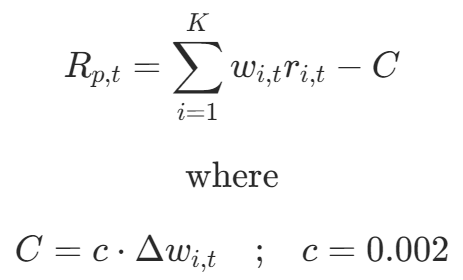
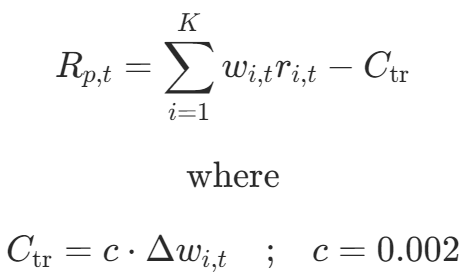
Updating README.md

diff --git a/NNBasedPortfolioOptimization/README.md b/NNBasedPortfolioOptimization/README.md
@@ -194,7 +194,7 @@ For the FCN architecture, disparity between training (T) and validation (V) pers
 
 ### 5.2 Backtest
 
-- **Transaction costs**: Transaction costs are accounted for by incorporating a cost term into the portfolio return equation. Specifically, these costs are a function of the change in asset weights ($\Delta{w_{i,t}}$) between two consecutive time periods. A cost coefficient ($c$), set at 0.2%, is multiplied by this change to calculate the total cost. This cost is then subtracted from the gross returns of each asset ($r_{i,t}$) resulting in a net return that reflects the impact of transaction costs on portfolio performance:
+- **Transaction costs**: Transaction costs are accounted for by incorporating a cost term into the portfolio return equation. Specifically, these costs are a function of the change in asset weights ($\Delta{w_{i,t}}$) between two consecutive time periods. A cost coefficient ($c$), set at 0.2%, is multiplied by this change to calculate the total cost. This cost is then subtracted from the gross returns of the portfolio ($\sum^n_{i=1}w_{i,t}r_{i,t}$) resulting in a net return that reflects the impact of transaction costs on portfolio performance:
 
 <p align="center">
     <img src="workflow/img/tc.png" alt="Transaction Costs" width="23%" height="23%">
